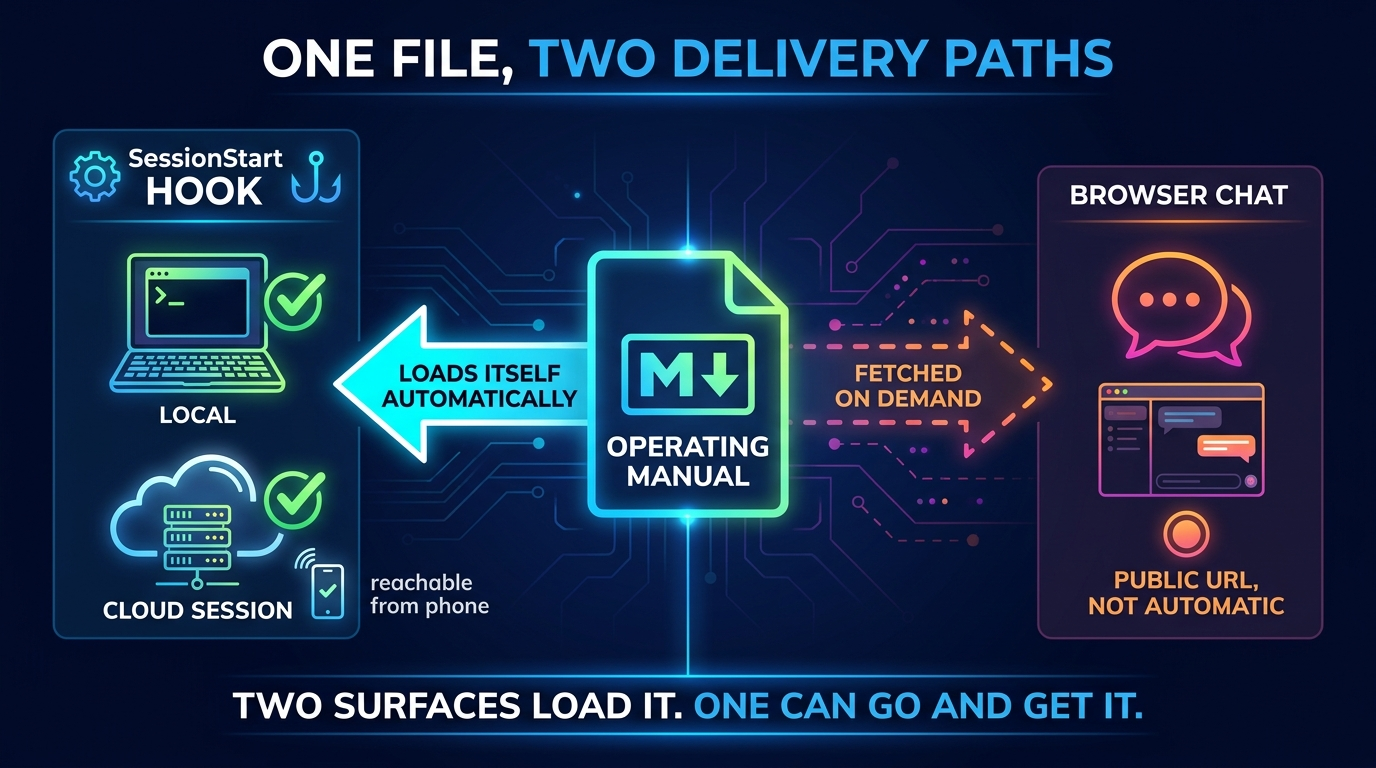
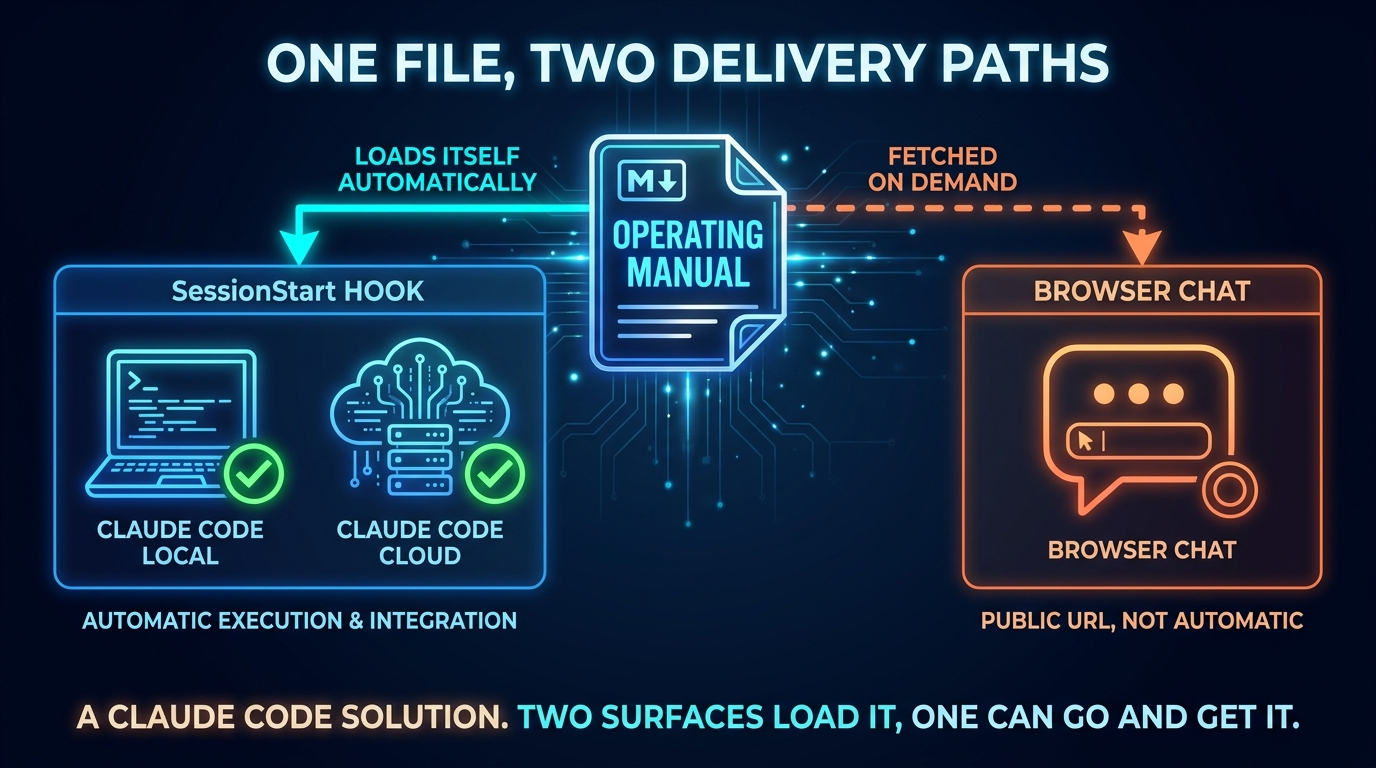
Correct the verified surface: cloud Claude Code, not the phone
The narrative claimed the fix was confirmed in a fresh session on the
phone. It was not — the environment where the problem first appeared is
a managed one with a fixed plugin set, and the fix was verified in a
Claude Code cloud session. Corrects the climax, states the uncovered
environment plainly, and drops the phone claim from the hero image.

Claude-Session: https://claude.ai/code/session_01CQqx1tRFiaDbXoATGzVfH6

diff --git a/articles/giving-claude-a-memory.md b/articles/giving-claude-a-memory.md
@@ -89,13 +89,14 @@ cleanly — a session should never fail to start because of a nicety like this.
 
 ---
 
-## Then the phone said no
+## Then the cloud said no
 
 Terminal: worked immediately. I enabled the plugin, started a fresh session,
 asked a question only the manual could answer, and got it back. Done.
 
-Then I opened a cloud session from my phone, asked what plugins were installed,
-and got one plugin back. Not mine.
+Then I went looking beyond the terminal. I opened a session in a managed
+environment on my phone, asked what plugins were installed, and got one plugin
+back. Not mine.
 
 This is the part of the project worth writing about, because I spent the next
 stretch being confidently wrong in three different directions.
@@ -199,7 +200,13 @@ Three properties, and each one earns its place:
 That last trick solved the observability problem in one move. The log came back
 clean: binary found, GitHub reachable, marketplace added, **plugin installed.**
 
-Fresh session on the phone. Asked the question. It answered from the manual.
+Fresh cloud session. Asked the question. It answered from the manual.
+
+One honest boundary on that result. The environment where I first noticed the
+problem — a managed, phone-friendly one with its own fixed plugin set — is *not*
+the environment I ended up verifying. What I proved works is a Claude Code cloud
+session. The managed environment remains uncovered, and I'd rather leave that
+stated than let a tidy ending imply otherwise.
 
 ---
 
